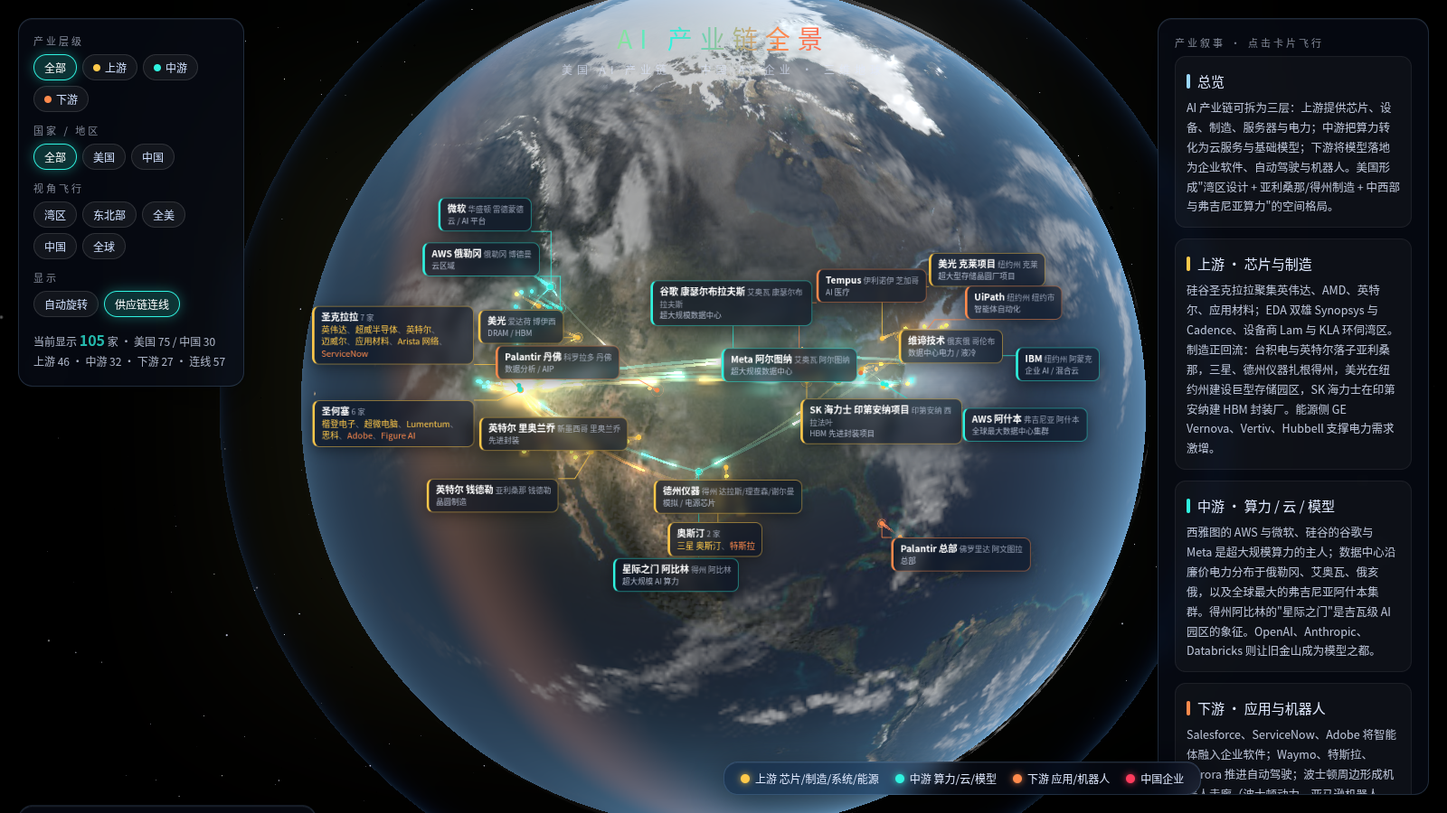
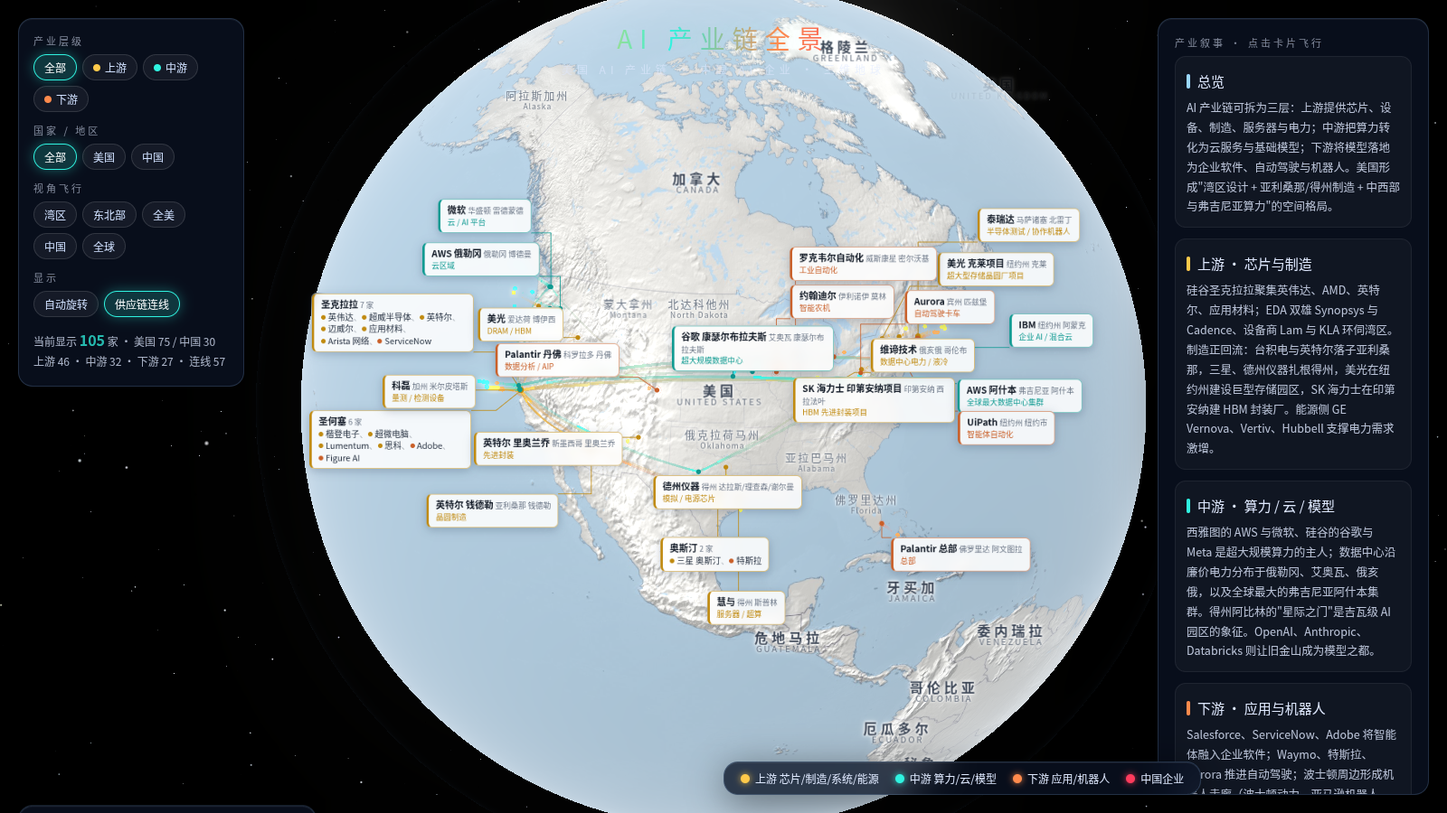
浅色制图风地球：Natural Earth 灰度地形+行政边界、高程起伏光照、中英文地名标注、浅色卡片

diff --git a/index.html b/index.html
@@ -4,7 +4,7 @@
 <meta charset="UTF-8"><meta name="viewport" content="width=device-width,initial-scale=1">
 <link rel="icon" href="data:,"><title>AI 产业链 · 中美全景地球</title>
 <style>
-:root{--gold:#ffc94a;--teal:#2ff3e0;--copper:#ff8a4c;--red:#ff3b5c;--glass:rgba(12,20,38,.42);--bd:rgba(150,200,255,.18)}
+:root{--gold:#ffc94a;--teal:#2ff3e0;--copper:#ff8a4c;--red:#ff3b5c;--glass:rgba(10,18,34,.78);--bd:rgba(150,200,255,.18)}
 *{box-sizing:border-box;margin:0;padding:0}
 html,body{width:100%;height:100%;overflow:hidden;background:#01030a;color:#dfe9ff;font-family:"PingFang SC","Microsoft YaHei","Noto Sans CJK SC",system-ui,sans-serif}
 canvas{display:block}
@@ -43,13 +43,19 @@ button .dot{display:inline-block;width:8px;height:8px;border-radius:50%;margin-r
 #loader{position:fixed;inset:0;display:flex;align-items:center;justify-content:center;flex-direction:column;gap:14px;background:#01030a;z-index:10;transition:opacity 1.2s;font-size:12px;letter-spacing:4px}
 #loader .ring{width:54px;height:54px;border-radius:50%;border:2px solid rgba(47,243,224,.15);border-top-color:var(--teal);animation:sp 1s linear infinite}
 @keyframes sp{to{transform:rotate(360deg)}}
+#plbl{position:fixed;inset:0;pointer-events:none;z-index:0}
+.pl{position:absolute;left:0;top:0;text-align:center;color:#4c5768;line-height:1.05;white-space:nowrap;text-shadow:0 0 3px #fff,0 0 3px #fff,0 0 6px rgba(255,255,255,.9);will-change:transform,opacity}
+.pl .z{font-size:11px;font-weight:500}.pl .e{font-size:8.5px;letter-spacing:.3px;opacity:.85}
+.pl.t0 .z{font-size:15px;letter-spacing:4px;color:#3a4454;font-weight:600}.pl.t0 .e{font-size:9.5px;letter-spacing:2px;text-transform:uppercase}
+.pl.t1 .z{font-size:12px;letter-spacing:2px;color:#5d6878}.pl.t1 .e{font-size:8.5px;letter-spacing:1px}
+.pl.t2 .z{font-size:10.5px;color:#2e3846}.pl.t2::before{content:"";display:block;margin:0 auto 2px;width:4px;height:4px;border-radius:50%;background:#5a6576;box-shadow:0 0 0 1.5px #fff}
 #lbl{position:fixed;inset:0;pointer-events:none;z-index:0}
 #lbl svg{position:absolute;inset:0;width:100%;height:100%}
 #lbl svg circle{stroke:none}
-.cl{position:absolute;left:0;top:0;pointer-events:auto;cursor:pointer;padding:5px 9px 6px;border-radius:9px;background:rgba(8,16,32,.62);backdrop-filter:blur(6px);-webkit-backdrop-filter:blur(6px);border:1px solid;border-left-width:3px;font-size:11px;line-height:1.4;max-width:210px;white-space:normal;will-change:transform,opacity;transition:background .2s;box-shadow:0 4px 18px rgba(0,0,0,.4)}
-.cl:hover{background:rgba(20,36,64,.85);z-index:5}
-.cl .c{font-size:10px;opacity:.6}.cl b{font-weight:600;font-size:12px;color:#fff}
-.cl .r{font-size:10px;opacity:.7}.cl .n{white-space:nowrap}.cl .n:hover{text-decoration:underline}
+.cl{position:absolute;left:0;top:0;pointer-events:auto;cursor:pointer;padding:5px 9px 6px;border-radius:7px;background:rgba(255,255,255,.86);color:#1f2a3a;backdrop-filter:blur(6px);-webkit-backdrop-filter:blur(6px);border:1px solid;border-left-width:3px;font-size:11px;line-height:1.4;max-width:210px;white-space:normal;will-change:transform,opacity;transition:background .2s;box-shadow:0 3px 12px rgba(20,40,70,.25)}
+.cl:hover{background:#fff;z-index:5}
+.cl .c{font-size:10px;color:#6b7686}.cl b{font-weight:700;font-size:12px;color:#121a26}
+.cl .r{font-size:10px}.cl .n{white-space:nowrap}.cl .n:hover{text-decoration:underline}
 #ctrl,#story,#info,#legend,#title{z-index:2}
 @media(max-width:1100px){#story{display:none}}
 </style>
@@ -84,7 +90,7 @@ button .dot{display:inline-block;width:8px;height:8px;border-radius:50%;margin-r
 </div>
 <div id="story" class="glass"></div>
 <div id="info" class="glass"><div class="x" id="infoX">×</div><div id="infoBody"></div></div>
-<div id="lbl"><svg id="lsvg"></svg></div><div id="label"></div>
+<div id="plbl"></div><div id="lbl"><svg id="lsvg"></svg></div><div id="label"></div>
 <div id="legend" class="glass">
   <span><i style="color:var(--gold);background:var(--gold)"></i>上游 芯片/制造/系统/能源</span>
   <span><i style="color:var(--teal);background:var(--teal)"></i>中游 算力/云/模型</span>
@@ -246,46 +252,41 @@ const ll2v=(lat,lon,r=R)=>{const p=(90-lat)*Math.PI/180,t=(lon+180)*Math.PI/180;
 
 const mgr=new THREE.LoadingManager();
 const tl=new THREE.TextureLoader(mgr);
-const tex=n=>{const t=tl.load('textures/'+n);t.anisotropy=8;return t;};
-const tDay=tex('earth_atmos_2048.jpg'),tNight=tex('earth_lights_2048.png'),tNorm=tex('earth_normal_2048.jpg'),tSpec=tex('earth_specular_2048.jpg'),tCloud=tex('earth_clouds_1024.png');
-tDay.colorSpace=THREE.SRGBColorSpace;tNight.colorSpace=THREE.SRGBColorSpace;
-
-const sunDir=new THREE.Vector3(1,.25,.4).normalize();
-const earthU={uDay:{value:tDay},uNight:{value:tNight},uNorm:{value:tNorm},uSpec:{value:tSpec},uSun:{value:sunDir},uTime:{value:0}};
-const earth=new THREE.Mesh(new THREE.SphereGeometry(R,160,160),new THREE.ShaderMaterial({uniforms:earthU,
-vertexShader:`varying vec2 vUv;varying vec3 vN;varying vec3 vW;
-void main(){vUv=uv;vN=normalize(mat3(modelMatrix)*normal);vec4 w=modelMatrix*vec4(position,1.);vW=w.xyz;gl_Position=projectionMatrix*viewMatrix*w;}`,
-fragmentShader:`uniform sampler2D uDay,uNight,uNorm,uSpec;uniform vec3 uSun;uniform float uTime;varying vec2 vUv;varying vec3 vN;varying vec3 vW;
+const tex=(n,srgb=true)=>{const t=tl.load('textures/'+n);t.anisotropy=renderer.capabilities.getMaxAnisotropy();if(srgb)t.colorSpace=THREE.SRGBColorSpace;return t;};
+const tMap=tex('map_8k.jpg'),tUS=tex('patch_us.jpg'),tCN=tex('patch_cn.jpg'),tH=tex('height_4k.jpg',false);
+[tUS,tCN].forEach(t=>{t.wrapS=t.wrapT=THREE.ClampToEdgeWrapping;});
+const sunDir=new THREE.Vector3(1,.5,.5).normalize();
+const earthU={uMap:{value:tMap},uUS:{value:tUS},uCN:{value:tCN},uH:{value:tH},uSun:{value:sunDir},uTime:{value:0},
+ uBoxUS:{value:new THREE.Vector4(-126,-66,24,50)},uBoxCN:{value:new THREE.Vector4(73,135,18,54)},uDisp:{value:.0035}};
+const earth=new THREE.Mesh(new THREE.SphereGeometry(R,384,192),new THREE.ShaderMaterial({uniforms:earthU,
+vertexShader:`uniform sampler2D uH;uniform float uDisp;varying vec2 vUv;varying vec3 vN;varying vec3 vW;
+void main(){vUv=uv;vN=normalize(mat3(modelMatrix)*normal);float h=texture2D(uH,uv).r;vec3 p=position*(1.+h*uDisp);vec4 w=modelMatrix*vec4(p,1.);vW=w.xyz;gl_Position=projectionMatrix*viewMatrix*w;}`,
+fragmentShader:`uniform sampler2D uMap,uUS,uCN,uH;uniform vec3 uSun;uniform vec4 uBoxUS,uBoxCN;varying vec2 vUv;varying vec3 vN;varying vec3 vW;
+vec3 mapPatch(sampler2D t,vec4 b,vec3 base,float lon,float lat){vec2 p=vec2((lon-b.x)/(b.y-b.x),(lat-b.z)/(b.w-b.z));
+ vec2 e=min(p,1.-p);float m=smoothstep(0.,.03,min(e.x,e.y));if(m<=0.)return base;return mix(base,texture2D(t,p).rgb,m);}
 void main(){
- vec3 n=normalize(vN);
+ vec3 n=normalize(vN);float lon=vUv.x*360.-180.,lat=vUv.y*180.-90.;
+ vec3 c=texture2D(uMap,vUv).rgb;
+ c=mapPatch(uUS,uBoxUS,c,lon,lat);c=mapPatch(uCN,uBoxCN,c,lon,lat);
+ // hillshade from heightmap (finite differences)
+ vec2 e=vec2(1./4096.,1./2048.);
+ float hx=texture2D(uH,vUv+vec2(e.x,0.)).r-texture2D(uH,vUv-vec2(e.x,0.)).r;
+ float hy=texture2D(uH,vUv+vec2(0.,e.y)).r-texture2D(uH,vUv-vec2(0.,e.y)).r;
  vec3 t=normalize(cross(vec3(0.,1.,0.),n));vec3 b=cross(n,t);
- vec3 nm=texture2D(uNorm,vUv).xyz*2.-1.;vec3 N=normalize(t*nm.x*.6+b*nm.y*.6+n*nm.z);
- float d=dot(N,uSun);float dl=smoothstep(-.18,.28,dot(n,uSun));
- vec3 day=texture2D(uDay,vUv).rgb;day=pow(day,vec3(.95))*1.05;
- vec3 night=texture2D(uNight,vUv).rgb;
- vec3 V=normalize(cameraPosition-vW);
- float spec=pow(max(dot(reflect(-uSun,N),V),0.),28.)*texture2D(uSpec,vUv).r;
- vec3 dayC=day*(.06+max(d,0.)*.8)+vec3(.55,.75,1.)*spec*.35;
- vec3 nightC=night*vec3(1.,.78,.45)*2.4+day*.035+vec3(.0,.01,.03);
- vec3 c=mix(nightC,dayC,dl);
- float fr=pow(1.-max(dot(n,V),0.),3.);
- c+=vec3(.25,.6,1.)*fr*(.15+.5*dl);
- float term=smoothstep(.0,.15,dot(n,uSun))*smoothstep(.3,.1,dot(n,uSun));c+=vec3(1.,.4,.15)*term*.08;
+ vec3 N=normalize(n-(t*hx+b*hy)*6.);
+ float relief=dot(N,uSun)-dot(n,uSun);
+ float lam=.78+.30*max(dot(n,uSun),0.);
+ c*=lam;c*=1.+clamp(relief*1.6,-.35,.3);
+ vec3 V=normalize(cameraPosition-vW);float fr=pow(1.-max(dot(n,V),0.),2.5);
+ c=mix(c,vec3(.80,.89,.98),fr*.55);
  gl_FragColor=vec4(c,1.);
  #include <colorspace_fragment>
 }`}));
 scene.add(earth);
-
-const clouds=new THREE.Mesh(new THREE.SphereGeometry(R*1.008,128,128),new THREE.ShaderMaterial({uniforms:{uC:{value:tCloud},uSun:{value:sunDir}},transparent:true,depthWrite:false,
-vertexShader:`varying vec2 vUv;varying vec3 vN;void main(){vUv=uv;vN=normalize(mat3(modelMatrix)*normal);gl_Position=projectionMatrix*modelViewMatrix*vec4(position,1.);}`,
-fragmentShader:`uniform sampler2D uC;uniform vec3 uSun;varying vec2 vUv;varying vec3 vN;void main(){float a=texture2D(uC,vUv).r;float l=smoothstep(-.15,.4,dot(normalize(vN),uSun));gl_FragColor=vec4(vec3(1.)*(.05+l*.75),a*(.06+.4*l));}`}));
-scene.add(clouds);
-
-const atmo=new THREE.Mesh(new THREE.SphereGeometry(R*1.16,96,96),new THREE.ShaderMaterial({uniforms:{uSun:{value:sunDir}},side:THREE.BackSide,transparent:true,blending:THREE.AdditiveBlending,depthWrite:false,
+const atmo=new THREE.Mesh(new THREE.SphereGeometry(R*1.09,96,96),new THREE.ShaderMaterial({side:THREE.BackSide,transparent:true,blending:THREE.AdditiveBlending,depthWrite:false,
 vertexShader:`varying vec3 vN;varying vec3 vW;void main(){vN=normalize(mat3(modelMatrix)*normal);vec4 w=modelMatrix*vec4(position,1.);vW=w.xyz;gl_Position=projectionMatrix*viewMatrix*w;}`,
-fragmentShader:`uniform vec3 uSun;varying vec3 vN;varying vec3 vW;void main(){vec3 V=normalize(cameraPosition-vW);float i=pow(clamp(.72+dot(vN,V),0.,1.),4.2);float s=.35+.65*smoothstep(-.4,.6,dot(-vN,uSun)*-1.);gl_FragColor=vec4(mix(vec3(.1,.35,1.),vec3(.35,.75,1.),i)*i*.9*(.45+s),i*.8);}`}));
+fragmentShader:`varying vec3 vN;varying vec3 vW;void main(){vec3 V=normalize(cameraPosition-vW);float i=pow(clamp(.62+dot(vN,V),0.,1.),5.);gl_FragColor=vec4(vec3(.45,.7,1.)*i*.55,i);}`}));
 scene.add(atmo);
-
 // stars
 {const N=9000,p=new Float32Array(N*3),c=new Float32Array(N*3),s=new Float32Array(N);
 for(let i=0;i<N;i++){const v=new THREE.Vector3().randomDirection().multiplyScalar(40+Math.random()*60);p.set([v.x,v.y,v.z],i*3);const k=Math.random();const col=new THREE.Color().setHSL(.55+k*.15-(k>.85?.5:0),.5,.75+Math.random()*.25);c.set([col.r,col.g,col.b],i*3);s[i]=Math.random();}
@@ -298,13 +299,13 @@ scene.add(new THREE.Points(g,m));}
 // ================= MARKERS =================
 const markerGroup=new THREE.Group();scene.add(markerGroup);
 const pillarGeo=new THREE.CylinderGeometry(.0016,.0035,1,8,1,true);pillarGeo.translate(0,.5,0);pillarGeo.rotateX(Math.PI/2);
-const pillarMat=c=>new THREE.ShaderMaterial({uniforms:{uC:{value:c},uTime:earthU.uTime,uPhase:{value:Math.random()*6.28},uHi:{value:0}},transparent:true,depthWrite:false,blending:THREE.AdditiveBlending,
+const pillarMat=c=>new THREE.ShaderMaterial({uniforms:{uC:{value:c},uTime:earthU.uTime,uPhase:{value:Math.random()*6.28},uHi:{value:0}},transparent:true,depthWrite:false,blending:THREE.NormalBlending,
 vertexShader:`varying float vH;void main(){vH=position.z;gl_Position=projectionMatrix*modelViewMatrix*vec4(position,1.);}`,
-fragmentShader:`uniform vec3 uC;uniform float uTime,uPhase,uHi;varying float vH;void main(){float pulse=fract(vH*2.-uTime*.8-uPhase);float band=smoothstep(.9,1.,pulse)*.9;float a=(1.-vH)*(1.-vH)*(.75+band)+band*.3;gl_FragColor=vec4(uC*(1.6+uHi*1.5),a*(.85+uHi*.15));}`});
+fragmentShader:`uniform vec3 uC;uniform float uTime,uPhase,uHi;varying float vH;void main(){float pulse=fract(vH*2.-uTime*.8-uPhase);float band=smoothstep(.9,1.,pulse)*.9;float a=(1.-vH)*(1.-vH)*(.75+band)+band*.3;gl_FragColor=vec4(uC*(.85+uHi*.4),min(1.,a*(.9+uHi*.1)));}`});
 const ringGeo=new THREE.PlaneGeometry(1,1);
-const ringMat=c=>new THREE.ShaderMaterial({uniforms:{uC:{value:c},uTime:earthU.uTime,uPhase:{value:Math.random()*6.28},uHi:{value:0}},transparent:true,depthWrite:false,blending:THREE.AdditiveBlending,side:THREE.DoubleSide,
+const ringMat=c=>new THREE.ShaderMaterial({uniforms:{uC:{value:c},uTime:earthU.uTime,uPhase:{value:Math.random()*6.28},uHi:{value:0}},transparent:true,depthWrite:false,blending:THREE.NormalBlending,side:THREE.DoubleSide,
 vertexShader:`varying vec2 vUv;void main(){vUv=uv;gl_Position=projectionMatrix*modelViewMatrix*vec4(position,1.);}`,
-fragmentShader:`uniform vec3 uC;uniform float uTime,uPhase,uHi;varying vec2 vUv;void main(){float d=length(vUv-.5)*2.;float t=fract(uTime*.6+uPhase/6.28);float ring=smoothstep(.08,0.,abs(d-t))*(1.-t);float core=smoothstep(.28,.0,d);gl_FragColor=vec4(uC*(1.5+uHi),(ring*.9+core)*(1.+uHi));}`});
+fragmentShader:`uniform vec3 uC;uniform float uTime,uPhase,uHi;varying vec2 vUv;void main(){float d=length(vUv-.5)*2.;float t=fract(uTime*.6+uPhase/6.28);float ring=smoothstep(.08,0.,abs(d-t))*(1.-t);float core=smoothstep(.28,.0,d);gl_FragColor=vec4(uC*.8,min(1.,(ring*.8+core)*(1.+uHi)));}`});
 const headGeo=new THREE.SphereGeometry(1,12,12);
 const markers=[];const byId={};
 D.forEach(r=>{const [id,cn,en,city,lat,lon,layer,cty,role,desc]=r;
@@ -329,14 +330,14 @@ ARCS.forEach(([a,b],i)=>{const A=byId[a],B=byId[b];if(!A||!B)return;
  const mid=pa.clone().add(pb).multiplyScalar(.5).normalize().multiplyScalar(R*(1+Math.max(dist*.55,.025)));
  const curve=new THREE.QuadraticBezierCurve3(pa,mid,pb);
  const geo=new THREE.TubeGeometry(curve,Math.max(24,Math.round(dist*200)),Math.min(.0022,.0008+dist*.003),5,false);
- const m=new THREE.ShaderMaterial({uniforms:{uA:{value:A.color},uB:{value:B.color},uTime:earthU.uTime,uOff:{value:Math.random()},uSpd:{value:.25+Math.random()*.15},uOp:{value:0}},transparent:true,depthWrite:false,blending:THREE.AdditiveBlending,
+ const m=new THREE.ShaderMaterial({uniforms:{uA:{value:A.color},uB:{value:B.color},uTime:earthU.uTime,uOff:{value:Math.random()},uSpd:{value:.25+Math.random()*.15},uOp:{value:0}},transparent:true,depthWrite:false,blending:THREE.NormalBlending,
  vertexShader:`varying vec2 vUv;void main(){vUv=uv;gl_Position=projectionMatrix*modelViewMatrix*vec4(position,1.);}`,
- fragmentShader:`uniform vec3 uA,uB;uniform float uTime,uOff,uSpd,uOp;varying vec2 vUv;void main(){float x=vUv.x;float h=fract(uTime*uSpd+uOff);float head=smoothstep(.22,0.,h-x)*step(x,h);float h2=fract(h+.5);float head2=smoothstep(.22,0.,h2-x)*step(x,h2);vec3 c=mix(uA,uB,x);float a=.13+pow(head,3.)*1.2+pow(head2,3.)*.6;gl_FragColor=vec4(c*(1.+pow(max(head,head2),6.)*2.5),a*uOp);}`});
+ fragmentShader:`uniform vec3 uA,uB;uniform float uTime,uOff,uSpd,uOp;varying vec2 vUv;void main(){float x=vUv.x;float h=fract(uTime*uSpd+uOff);float head=smoothstep(.22,0.,h-x)*step(x,h);float h2=fract(h+.5);float head2=smoothstep(.22,0.,h2-x)*step(x,h2);vec3 c=mix(uA,uB,x);float a=.35+pow(head,3.)*.65+pow(head2,3.)*.4;gl_FragColor=vec4(c*(.7+pow(max(head,head2),6.)*.5),min(1.,a)*uOp);}`});
  const mesh=new THREE.Mesh(geo,m);arcGroup.add(mesh);arcs.push({A,B,mesh,m,op:0});});
 
 // ================= POST =================
 const composer=new EffectComposer(renderer);composer.addPass(new RenderPass(scene,camera));
-const bloom=new UnrealBloomPass(new THREE.Vector2(innerWidth,innerHeight),.7,.45,.82);composer.addPass(bloom);composer.addPass(new OutputPass());
+const bloom=new UnrealBloomPass(new THREE.Vector2(innerWidth,innerHeight),.35,.4,.97);composer.addPass(bloom);composer.addPass(new OutputPass());
 
 // ================= UI =================
 let fLayer='all',fCty='all',showArcs=true;
@@ -397,13 +398,13 @@ const groups=[];{const m=new Map();markers.forEach(o=>{if(!m.has(o.city))m.set(o
   const g={city,ms,n,pos:n.clone().multiplyScalar(R*1.002),el,line,dot,x:0,y:0,w:0,h:0,init:false,op:0,vis:[]};
   el.addEventListener('click',e=>{const t=e.target.closest('[data-id]');select(t?byId[t.dataset.id]:g.vis[0]);});
   groups.push(g);});}
-const hex=c=>'#'+c.getHexString();
+const hex=c=>'#'+c.getHexString();const INK={up:'#c08a10',mid:'#0e9a91',down:'#c95f28',CN:'#d62a45'};const ink=o=>o.cty==='CN'?INK.CN:INK[o.layer];
 function buildCards(){groups.forEach(g=>{g.vis=g.ms.filter(visible);if(!g.vis.length)return;
  const cnt={};g.vis.forEach(o=>cnt[o.layer]=(cnt[o.layer]||0)+1);const dom=Object.keys(cnt).sort((a,b)=>cnt[b]-cnt[a])[0];
- const col=g.vis[0].cty==='CN'?hex(COL.CN):hex(COL[dom]);g.col=col;
+ const col=g.vis[0].cty==='CN'?INK.CN:INK[dom];g.col=col;
  g.el.style.borderColor=col+'88';g.el.style.borderLeftColor=col;g.line.setAttribute('stroke',col);g.dot.setAttribute('fill',col);
- if(g.vis.length===1){const o=g.vis[0];g.el.innerHTML=`<b>${o.cn}</b> <span class="c">${o.city}</span><div class="r">${o.role}</div>`;}
- else g.el.innerHTML=`<b>${g.city.split(' ').pop()}</b> <span class="c">${g.vis.length} 家</span><div>${g.vis.map(o=>`<span class="n" data-id="${o.id}" style="color:${hex(o.color)}">${o.cn}</span>`).join('<span style="opacity:.4">、</span>')}</div>`;
+ if(g.vis.length===1){const o=g.vis[0];g.el.innerHTML=`<b>${o.cn}</b> <span class="c">${o.city}</span><div class="r" style="color:${ink(o)}">${o.role}</div>`;}
+ else g.el.innerHTML=`<b>${g.city.split(' ').pop()}</b> <span class="c">${g.vis.length} 家</span><div>${g.vis.map(o=>`<span class="n" data-id="${o.id}"><i style="display:inline-block;width:6px;height:6px;border-radius:50%;margin-right:3px;vertical-align:1px;background:${ink(o)}"></i>${o.cn}</span>`).join('<span style="opacity:.4">、</span>')}</div>`;
  g.el.style.transform='none';g.el.style.display='block';g.el.style.visibility='hidden';g.w=g.el.offsetWidth;g.h=g.el.offsetHeight;g.el.style.visibility='';g.el.style.display='none';g.init=false;});}
 const _applyFilter=applyFilter;applyFilter=function(){_applyFilter();buildCards();};
 const tmp=new THREE.Vector3(),camDir=new THREE.Vector3();
@@ -438,7 +439,31 @@ function updateCards(){const W=innerWidth,H=innerHeight;const cd=camera.position
   // leader: from dot to nearest card edge point
   const ex=THREE.MathUtils.clamp(g.dx,g.x-g.sw/2,g.x+g.sw/2),ey=THREE.MathUtils.clamp(g.dy,g.y-g.sh/2,g.y+g.sh/2);
   const mx=(g.dx+ex)/2;g.line.setAttribute('d',`M${g.dx.toFixed(1)},${g.dy.toFixed(1)} L${(Math.abs(ex-g.dx)>Math.abs(ey-g.dy)?mx:g.dx).toFixed(1)},${ey.toFixed(1)} L${ex.toFixed(1)},${ey.toFixed(1)}`);
-  g.line.style.opacity=g.op*.8;});}
+  g.line.style.opacity=g.op*.8;});
+ const rects=[];groups.forEach(g=>{if(g.act){rects.push({x:g.dx,y:g.dy,w:10,h:10});if(g.keep&&g.op>.3)rects.push({x:g.x,y:g.y,w:g.sw,h:g.sh});}});updatePlaces(rects);}
+
+
+// ================= PLACE LABELS =================
+const PL=[["津巴布韦","Zimbabwe",-18.91,29.93,0,3],["赞比亚","Zambia",-14.66,26.4,0,3],["也门","Yemen",15.33,45.87,0,3],["越南","Vietnam",21.72,105.39,0,2],["委内瑞拉","Venezuela",7.18,-64.6,0,3],["瓦努阿图","Vanuatu",-15.37,166.91,0,4],["乌兹别克斯坦","Uzbekistan",41.69,64.01,0,3],["乌拉圭","Uruguay",-32.96,-55.97,0,4],["美属萨摩亚","American Samoa",-14.33,-170.75,0,4],["美国","United States",39.54,-97.48,0,2],["南乔治亚和南桑威奇群岛","S. Geo. and the Is.",-55.68,-31.06,0,4],["皮特凯恩群岛","Pitcairn Is.",-24.36,-128.32,0,4],["英国","United Kingdom",54.4,-2.12,0,2],["阿拉伯联合酋长国","United Arab Emirates",23.47,54.55,0,4],["乌克兰","Ukraine",49.72,32.14,0,3],["乌干达","Uganda",1.97,32.95,0,3],["土库曼斯坦","Turkmenistan",39.86,58.68,0,4],["土耳其","Turkey",39.35,34.51,0,2],["突尼斯","Tunisia",33.69,9.01,0,3],["汤加","Tonga",-21.21,-175.16,0,4],["泰国","Thailand",15.46,101.07,0,3],["坦桑尼亚","Tanzania",-6.05,34.96,0,3],["塔吉克斯坦","Tajikistan",38.2,72.59,0,4],["叙利亚","Syria",35.01,38.28,0,3],["瑞士","Switzerland",46.72,7.46,0,4],["瑞典","Sweden",65.86,19.02,0,3],["斯威士兰","eSwatini",-26.53,31.47,0,4],["苏里南","Suriname",4.14,-55.91,0,4],["南苏丹","S. Sudan",7.23,30.39,0,3],["苏丹","Sudan",16.33,29.26,0,3],["斯里兰卡","Sri Lanka",7.58,80.7,0,3],["西班牙","Spain",40.09,-3.46,0,2],["大韩民国","South Korea",36.38,128.13,0,2],["南非","South Africa",-29.71,23.67,0,2],["所罗门群岛","Solomon Is.",-8.03,159.17,0,3],["塞拉利昂","Sierra Leone",8.62,-11.76,0,4],["塞内加尔","Senegal",15.14,-14.78,0,3],["沙特阿拉伯","Saudi Arabia",23.81,44.7,0,2],["萨摩亚","Samoa",-13.64,-172.44,0,4],["卢旺达","Rwanda",-1.9,30.1,0,3],["俄罗斯","Russia",58.25,44.69,0,2],["罗马尼亚","Romania",45.73,24.97,0,3],["葡萄牙","Portugal",39.61,-8.27,0,2],["波兰","Poland",51.99,19.49,0,3],["菲律宾","Philippines",11.2,122.47,0,2],["秘鲁","Peru",-12.98,-72.9,0,2],["巴拉圭","Paraguay",-21.67,-60.15,0,4],["巴布亚新几内亚","Papua New Guinea",-5.7,143.91,0,2],["巴拿马","Panama",8.72,-80.35,0,4],["巴基斯坦","Pakistan",29.33,68.55,0,2],["阿曼","Oman",22.12,57.34,0,4],["挪威","Norway",61.36,9.68,0,3],["朝鲜民主主义人民共和国","North Korea",39.89,126.44,0,3],["尼日利亚","Nigeria",9.44,7.5,0,2],["尼日尔","Niger",17.45,9.5,0,3],["新西兰","New Zealand",-39.76,172.79,0,2],["纽埃","Niue",-19.05,-169.86,0,4],["库克群岛","Cook Is.",-21.22,-159.79,0,4],["尼泊尔","Nepal",28.3,83.64,0,3],["纳米比亚","Namibia",-20.58,17.11,0,3],["莫桑比克","Mozambique",-13.94,37.84,0,3],["摩洛哥","Morocco",31.65,-7.19,0,3],["蒙古国","Mongolia",46.0,104.15,0,3],["墨西哥","Mexico",23.92,-102.29,0,2],["毛里塔尼亚","Mauritania",19.59,-9.74,0,3],["马里","Mali",18.69,-2.04,0,3],["马来西亚","Malaysia",2.53,113.84,0,3],["马达加斯加","Madagascar",-18.63,46.7,0,3],["利比亚","Libya",26.64,18.01,0,3],["利比里亚","Liberia",6.45,-9.46,0,4],["老挝","Laos",19.43,102.53,0,4],["吉尔吉斯斯坦","Kyrgyzstan",41.67,74.53,0,4],["肯尼亚","Kenya",0.55,37.91,0,2],["哈萨克斯坦","Kazakhstan",49.05,68.69,0,3],["约旦","Jordan",30.81,36.38,0,4],["日本","Japan",36.14,138.44,0,2],["牙买加","Jamaica",18.14,-77.32,0,4],["意大利","Italy",44.73,11.08,0,2],["以色列","Israel",30.91,34.85,0,4],["爱尔兰","Ireland",53.08,-7.8,0,3],["伊拉克","Iraq",33.09,43.26,0,3],["伊朗","Iran",32.17,54.93,0,2],["印度尼西亚","Indonesia",-0.95,101.89,0,2],["印度","India",22.69,79.36,0,2],["冰岛","Iceland",64.78,-18.67,0,3],["圭亚那","Guyana",5.12,-58.94,0,4],["几内亚","Guinea",10.62,-10.02,0,3],["危地马拉","Guatemala",14.98,-90.5,0,3],["希腊","Greece",39.49,21.73,0,3],["加纳","Ghana",7.72,-1.04,0,3],["德国","Germany",50.96,9.68,0,2],["加蓬","Gabon",-0.44,11.84,0,4],["法国","France",46.7,2.55,0,2],["圣皮埃尔和密克隆","St. Pierre and Miquelon",47.04,-56.33,0,4],["瓦利斯和富图纳","Wallis and Futuna Is.",-14.29,-178.14,0,4],["法属波利尼西亚","Fr. Polynesia",-17.63,-149.46,0,4],["新喀里多尼亚","New Caledonia",-21.06,165.08,0,3],["芬兰","Finland",63.25,27.28,0,3],["埃塞俄比亚","Ethiopia",8.03,39.09,0,2],["厄立特里亚","Eritrea",15.79,38.29,0,4],["赤道几内亚","Eq. Guinea",2.33,8.99,0,4],["埃及","Egypt",26.19,29.45,0,2],["厄瓜多尔","Ecuador",-1.26,-78.19,0,3],["格陵兰","Greenland",74.32,-39.34,0,3],["丹麦","Denmark",55.97,9.02,0,4],["古巴","Cuba",21.33,-77.98,0,3],["科特迪瓦","Côte d'Ivoire",7.49,-5.57,0,3],["刚果民主共和国","Dem. Rep. Congo",-1.86,23.46,0,2],["刚果共和国","Congo",0.14,15.9,0,4],["哥伦比亚","Colombia",3.37,-73.17,0,2],["中国","China",32.5,106.34,0,2],["澳门","Macao",22.13,113.56,0,4],["香港","Hong Kong",22.45,114.1,0,4],["智利","Chile",-38.15,-72.32,0,2],["乍得","Chad",15.14,18.65,0,3],["中非共和国","Central African Rep.",6.99,20.91,0,4],["佛得角","Cabo Verde",15.07,-23.64,0,4],["加拿大","Canada",60.32,-101.91,0,2],["喀麦隆","Cameroon",4.59,12.47,0,3],["柬埔寨","Cambodia",12.65,104.5,0,3],["缅甸","Myanmar",21.57,95.8,0,3],["布基纳法索","Burkina Faso",12.67,-1.36,0,3],["保加利亚","Bulgaria",42.51,25.16,0,4],["巴西","Brazil",-12.1,-49.56,0,2],["博茨瓦纳","Botswana",-22.1,24.18,0,4],["玻利维亚","Bolivia",-16.67,-64.59,0,3],["比利时","Belgium",50.79,4.8,0,2],["白俄罗斯","Belarus",53.82,28.42,0,4],["孟加拉国","Bangladesh",24.21,89.68,0,3],["巴林","Bahrain",26.06,50.55,0,4],["巴哈马","Bahamas",26.4,-77.15,0,4],["奥地利","Austria",47.52,14.13,0,4],["澳大利亚","Australia",-24.13,134.05,0,2],["阿根廷","Argentina",-33.5,-64.17,0,2],["安哥拉","Angola",-12.18,17.98,0,3],["阿尔及利亚","Algeria",27.4,2.81,0,3],["阿富汗","Afghanistan",34.16,66.5,0,3],["南极洲","Antarctica",-79.84,35.89,0,4],["新疆","Xinjiang",41.12,85.43,1,5],["西藏","Xizang",31.45,88.41,1,5],["内蒙古","Inner Mongolia",41.59,111.62,1,5],["甘肃","Gansu",38.74,100.73,1,5],["云南","Yunnan",24.46,101.66,1,5],["黑龙江","Heilongjiang",46.85,127.97,1,5],["吉林","Jilin",43.3,126.47,1,5],["辽宁","Liaoning",41.39,123.07,1,5],["广西","Guangxi",23.75,108.76,1,5],["华盛顿州","Washington",47.49,-120.36,1,5],["爱达荷州","Idaho",43.78,-114.13,1,5],["蒙大拿州","Montana",47.0,-110.04,1,5],["北达科他州","North Dakota",47.47,-100.3,1,5],["明尼苏达州","Minnesota",46.06,-93.36,1,5],["密歇根州","Michigan",43.43,-84.95,1,5],["俄亥俄州","Ohio",40.09,-82.67,1,5],["宾夕法尼亚州","Pennsylvania",40.86,-77.61,1,5],["纽约州","New York",43.2,-75.32,1,5],["佛蒙特州","Vermont",44.09,-72.73,1,5],["新罕布什尔州","New Hampshire",43.6,-71.63,1,5],["缅因州","Maine",45.15,-69.2,1,5],["亚利桑那州","Arizona",34.3,-111.94,1,5],["加利福尼亚州","California",36.75,-119.59,1,5],["新墨西哥州","New Mexico",34.5,-106.02,1,5],["得克萨斯州","Texas",31.13,-98.76,1,5],["阿拉斯加州","Alaska",65.36,-151.6,1,5],["广东","Guangdong",23.79,113.72,1,5],["海南","Hainan",19.19,109.83,1,5],["福建","Fujian",26.41,118.18,1,5],["路易斯安那州","Louisiana",30.53,-92.0,1,5],["密西西比州","Mississippi",32.87,-89.72,1,5],["亚拉巴马州","Alabama",32.86,-86.72,1,5],["佛罗里达州","Florida",28.16,-81.62,1,5],["佐治亚州","Georgia",32.85,-83.41,1,5],["南卡罗来纳州","South Carolina",33.86,-80.65,1,5],["北卡罗来纳州","North Carolina",35.62,-78.87,1,5],["弗吉尼亚州","Virginia",37.74,-78.24,1,5],["华盛顿哥伦比亚特区","District of Columbia",38.89,-77.01,1,5],["马里兰州","Maryland",39.39,-77.05,1,5],["特拉华州","Delaware",38.87,-75.41,1,5],["新泽西州","New Jersey",40.04,-74.47,1,5],["康涅狄格州","Connecticut",41.65,-72.76,1,5],["罗得岛州","Rhode Island",41.62,-71.51,1,5],["马萨诸塞州","Massachusetts",42.37,-72.0,1,5],["浙江","Zhejiang",29.11,119.97,1,5],["上海","Shanghai",31.09,121.41,1,5],["江苏","Jiangsu",32.98,119.94,1,5],["俄勒冈州","Oregon",43.83,-120.39,1,5],["山东","Shandong",36.33,118.11,1,5],["河北","Hebei",38.52,115.31,1,5],["天津","Tianjin",39.37,117.35,1,5],["夏威夷州","Hawaii",21.49,-158.0,1,5],["西沙群岛","Paracel Islands",15.78,111.2,1,5],["犹他州","Utah",39.5,-111.54,1,5],["怀俄明州","Wyoming",43.0,-107.55,1,5],["内华达州","Nevada",39.43,-117.02,1,5],["科罗拉多州","Colorado",39.0,-105.54,1,5],["南达科他州","South Dakota",44.47,-100.25,1,5],["內布拉斯加州","Nebraska",41.5,-99.69,1,5],["堪萨斯州","Kansas",38.5,-98.33,1,5],["俄克拉荷马州","Oklahoma",35.45,-97.13,1,5],["艾奥瓦州","Iowa",42.04,-93.39,1,5],["密苏里州","Missouri",38.55,-92.45,1,5],["北京","Beijing",39.95,116.39,1,5],["四川","Sichuan",30.54,102.38,1,5],["重庆","Chongqing",30.02,107.73,1,5],["贵州","Guizhou",26.8,106.56,1,5],["湖南","Hunan",27.67,111.71,1,5],["宁夏","Ningxia",37.18,106.04,1,5],["陕西","Shaanxi",33.77,108.36,1,5],["青海","Qinghai",35.27,96.24,1,5],["山西","Shanxi",37.76,112.39,1,5],["江西","Jiangxi",27.64,116.02,1,5],["河南","Henan",33.91,113.48,1,5],["湖北","Hubei",30.99,112.26,1,5],["安徽","Anhui",31.95,117.25,1,5],["威斯康星州","Wisconsin",44.37,-89.58,1,5],["伊利诺伊州","Illinois",39.95,-89.2,1,5],["肯塔基州","Kentucky",37.4,-85.57,1,5],["阿肯色州","Arkansas",34.76,-92.14,1,5],["田纳西州","Tennessee",35.75,-86.34,1,5],["西維吉尼亞州","West Virginia",38.64,-80.71,1,5],["印第安纳州","Indiana",39.89,-86.14,1,5],["台湾","Taiwan",23.7,121.0,1,5],["旧金山","San Francisco",37.77,-122.42,2,6],["圣何塞","San Jose",37.34,-121.89,2,6],["奥克兰","Oakland",37.8,-122.27,2,6],["帕洛阿尔托","Palo Alto",37.44,-122.14,2,6],["弗里蒙特","Fremont",37.55,-121.99,2,6],["洛杉矶","Los Angeles",34.05,-118.24,2,6],["圣迭戈","San Diego",32.72,-117.16,2,6],["西雅图","Seattle",47.61,-122.33,2,6],["波特兰","Portland",45.52,-122.68,2,6],["凤凰城","Phoenix",33.45,-112.07,2,6],["丹佛","Denver",39.74,-104.99,2,6],["盐湖城","Salt Lake City",40.76,-111.89,2,6],["达拉斯","Dallas",32.78,-96.8,2,6],["休斯敦","Houston",29.76,-95.37,2,6],["奥斯汀","Austin",30.27,-97.74,2,6],["芝加哥","Chicago",41.88,-87.63,2,6],["底特律","Detroit",42.33,-83.05,2,6],["纽约","New York",40.71,-74.01,2,6],["波士顿","Boston",42.36,-71.06,2,6],["华盛顿","Washington",38.91,-77.04,2,6],["费城","Philadelphia",39.95,-75.17,2,6],["匹兹堡","Pittsburgh",40.44,-80.0,2,6],["亚特兰大","Atlanta",33.75,-84.39,2,6],["迈阿密","Miami",25.76,-80.19,2,6],["哥伦布","Columbus",39.96,-83.0,2,6],["明尼阿波利斯","Minneapolis",44.98,-93.27,2,6],["博伊西","Boise",43.62,-116.2,2,6],["阿尔伯克基","Albuquerque",35.08,-106.65,2,6],["北京","Beijing",39.9,116.4,2,6],["上海","Shanghai",31.23,121.47,2,6],["深圳","Shenzhen",22.54,114.06,2,6],["广州","Guangzhou",23.13,113.26,2,6],["杭州","Hangzhou",30.27,120.15,2,6],["合肥","Hefei",31.82,117.23,2,6],["武汉","Wuhan",30.59,114.31,2,6],["天津","Tianjin",39.13,117.2,2,6],["济南","Jinan",36.65,117.0,2,6],["成都","Chengdu",30.57,104.07,2,6],["重庆","Chongqing",29.56,106.55,2,6],["西安","Xi'an",34.34,108.94,2,6],["南京","Nanjing",32.06,118.8,2,6],["贵阳","Guiyang",26.65,106.63,2,6],["中卫","Zhongwei",37.51,105.19,2,6],["乌兰察布","Ulanqab",41.0,113.13,2,6],["香港","Hong Kong",22.32,114.17,2,6],["苏州","Suzhou",31.3,120.62,2,6]];
+const plRoot=document.getElementById('plbl');
+const places=PL.map(([zh,en,lat,lon,tier,rank])=>{const el=document.createElement('div');el.className='pl t'+tier;el.innerHTML=`<div class="z">${zh}</div><div class="e">${en}</div>`;el.style.display='none';plRoot.appendChild(el);
+ return {zh,en,tier,rank,el,n:ll2v(lat,lon,1),pos:ll2v(lat,lon,R*1.003),w:0,h:0,op:0};});
+let plMeasured=false;
+function measurePlaces(){places.forEach(p=>{p.el.style.display='block';p.el.style.visibility='hidden';});places.forEach(p=>{p.w=p.el.offsetWidth;p.h=p.el.offsetHeight;});places.forEach(p=>{p.el.style.visibility='';p.el.style.display='none';});plMeasured=true;}
+places.sort((a,b)=>a.tier-b.tier||a.rank-b.rank);
+function updatePlaces(cardRects){if(!plMeasured)measurePlaces();const W=innerWidth,H=innerHeight,cd=camera.position.length();
+ const tierOn=[cd>1.45&&cd<6?1:0, cd<3.6?1:0, cd<2.3?1:0];
+ const taken=cardRects.slice();
+ places.forEach(p=>{let ok=false,x=0,y=0;
+  if(started&&introT>=1&&tierOn[p.tier]&&!(p.tier===0&&p.rank>(cd>3.2?2:4))){const face=(p.n.dot(camera.position)-1)/(cd-1);
+   if(face>.12){tmp.copy(p.pos).project(camera);x=(tmp.x+1)/2*W;y=(1-tmp.y)/2*H;
+    if(x>(W>1100?280:0)&&x<(W>1100?W-330:W)&&y>0&&y<H){ok=true;const r={x,y,w:p.w+6,h:p.h+2};
+     for(const q of taken){if(Math.abs(q.x-r.x)*2<q.w+r.w&&Math.abs(q.y-r.y)*2<q.h+r.h){ok=false;break;}}
+     if(ok)taken.push(r);p.face=face;}}}
+  p.op+=((ok?Math.min(1,(p.face-.12)*5):0)-p.op)*.2;
+  if(p.op<.02){p.el.style.display='none';return;}
+  p.el.style.display='block';p.el.style.opacity=p.op*(p.tier===1?.85:1);if(ok){p.x=x;p.y=y;}
+  p.el.style.transform=`translate(${(p.x-p.w/2).toFixed(1)}px,${(p.y-p.h/2).toFixed(1)}px)`;});}
 
 // ================= LOOP =================
 const clock=new THREE.Clock();let introT=0,started=false;
@@ -448,8 +473,7 @@ function tick(){const dt=Math.min(clock.getDelta(),.05);const t=clock.elapsedTim
  if(started&&introT<1){introT=Math.min(1,introT+dt/3.5);const e=ease(introT);const p=introFrom.clone().lerp(introTo,e);
   p.applyAxisAngle(new THREE.Vector3(0,1,0),(1-e)*2.2);camera.position.copy(p);if(introT>=1){controls.autoRotate=true;}}
  if(fly){fly.t+=dt/fly.dur;const e=ease(Math.min(fly.t,1));camera.position.copy(slerpCam(fly,e));if(fly.t>=1)fly=null;}
- clouds.rotation.y+=dt*.006;
- {const cp=camera.position.clone().normalize();sunDir.copy(cp.applyAxisAngle(new THREE.Vector3(0,1,0),.95+.25*Math.sin(t*.05))).setY(cp.y*.5+.2).normalize();}
+ {const r=new THREE.Vector3().setFromMatrixColumn(camera.matrixWorld,0),u=new THREE.Vector3().setFromMatrixColumn(camera.matrixWorld,1),f=camera.position.clone().normalize();sunDir.copy(f).multiplyScalar(.75).addScaledVector(r,-.45).addScaledVector(u,.55).normalize();}
  const cd=camera.position.length();const sc=THREE.MathUtils.clamp((cd-1)/2.2,.35,1.6);
  markers.forEach((o,i)=>{const delay=started?THREE.MathUtils.clamp(introT*3-1.6-i*.004,0,1):0;
   o.vis+=(o.target*delay-o.vis)*Math.min(1,dt*6);const hi=(o===hovered||o===selected)?1:0;
